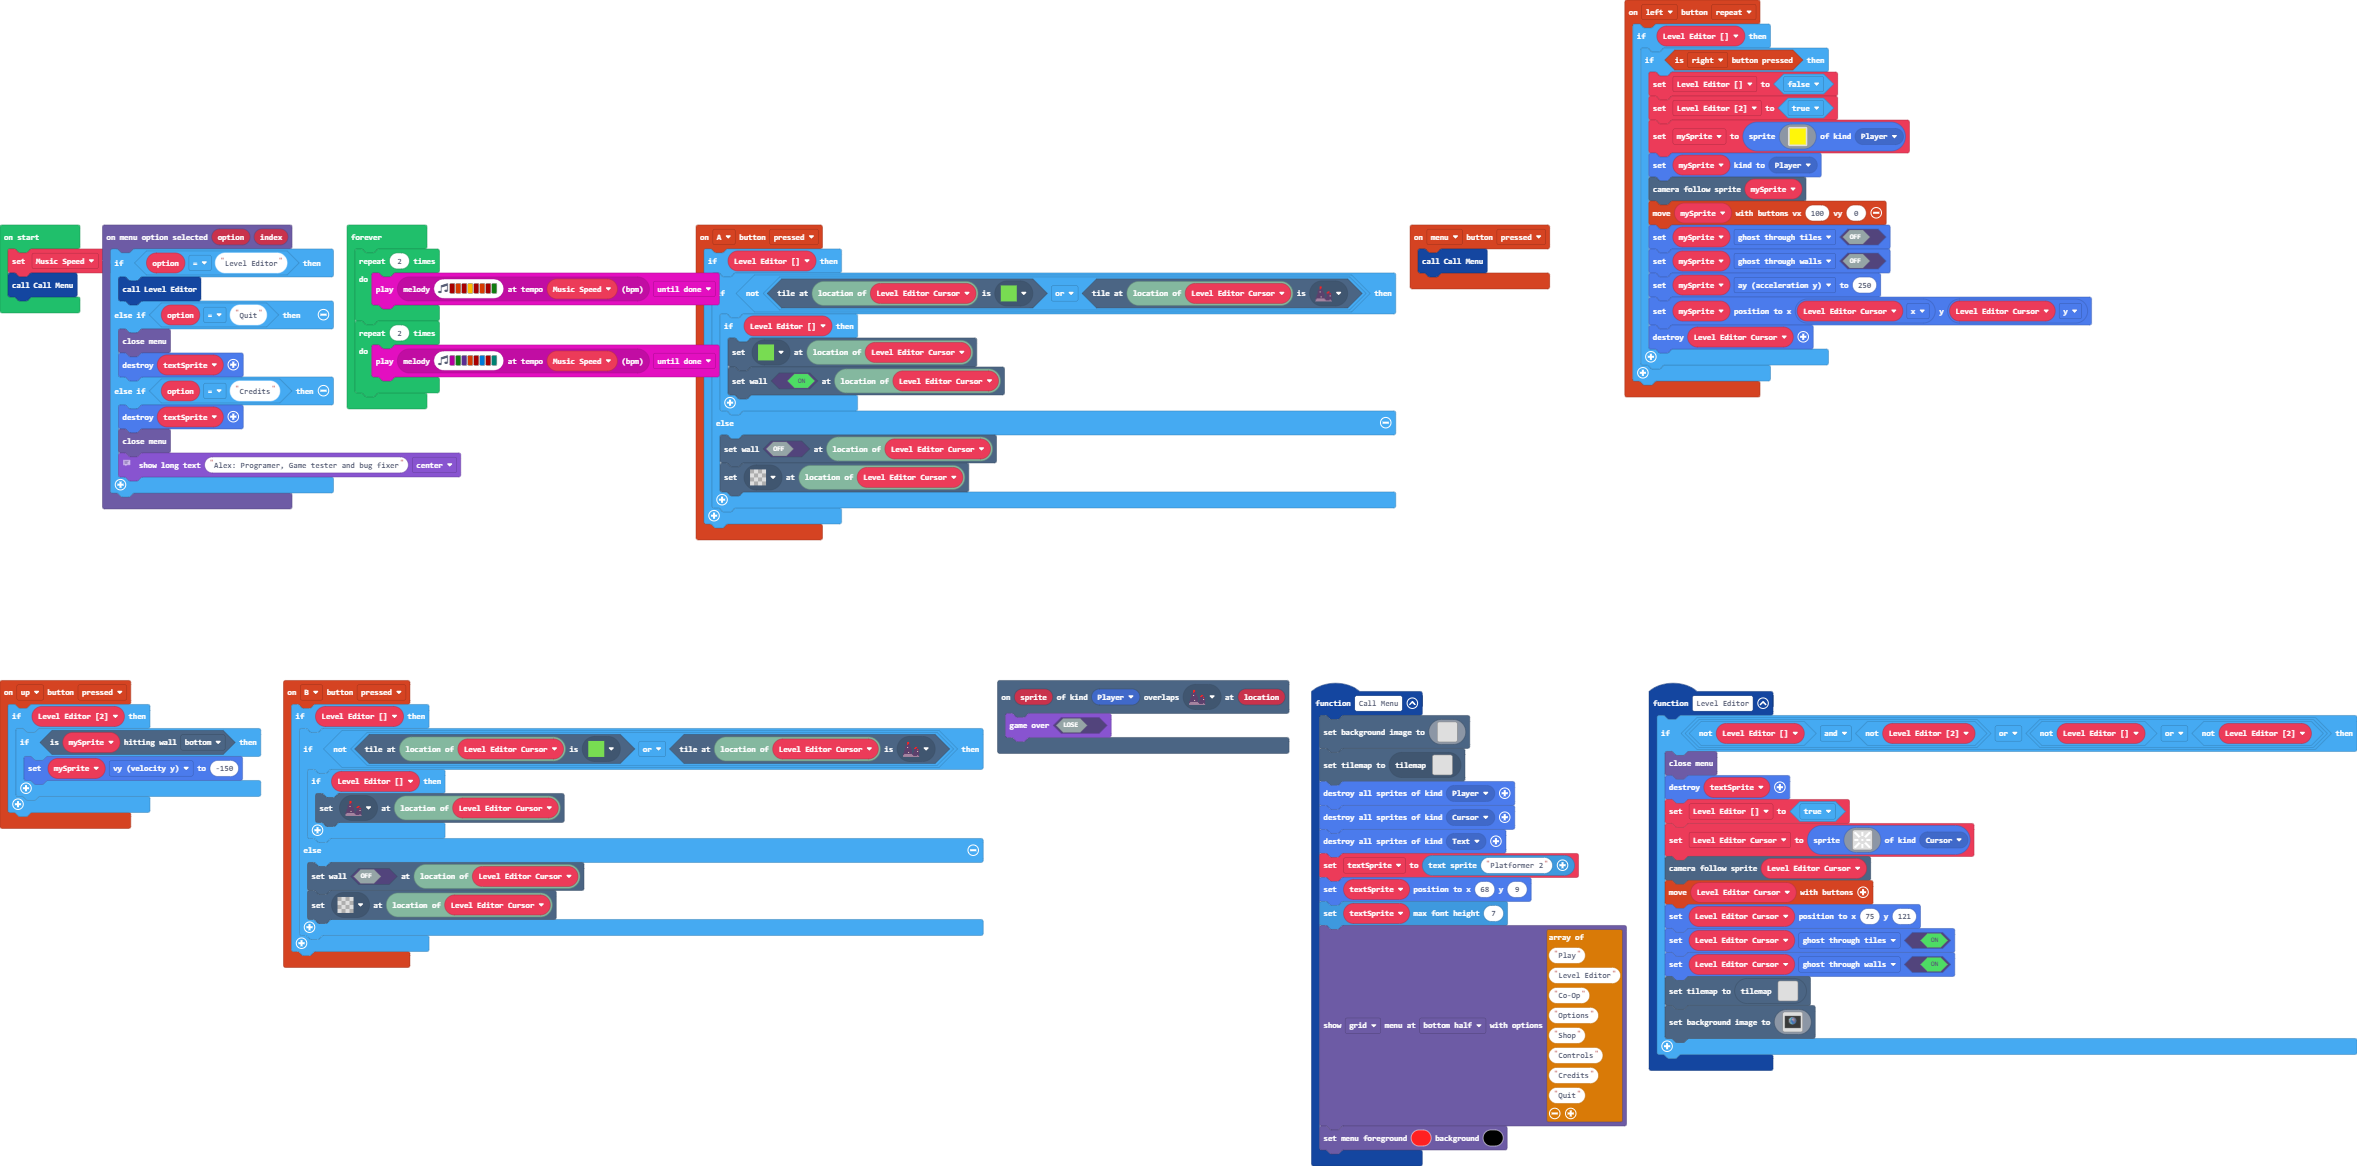
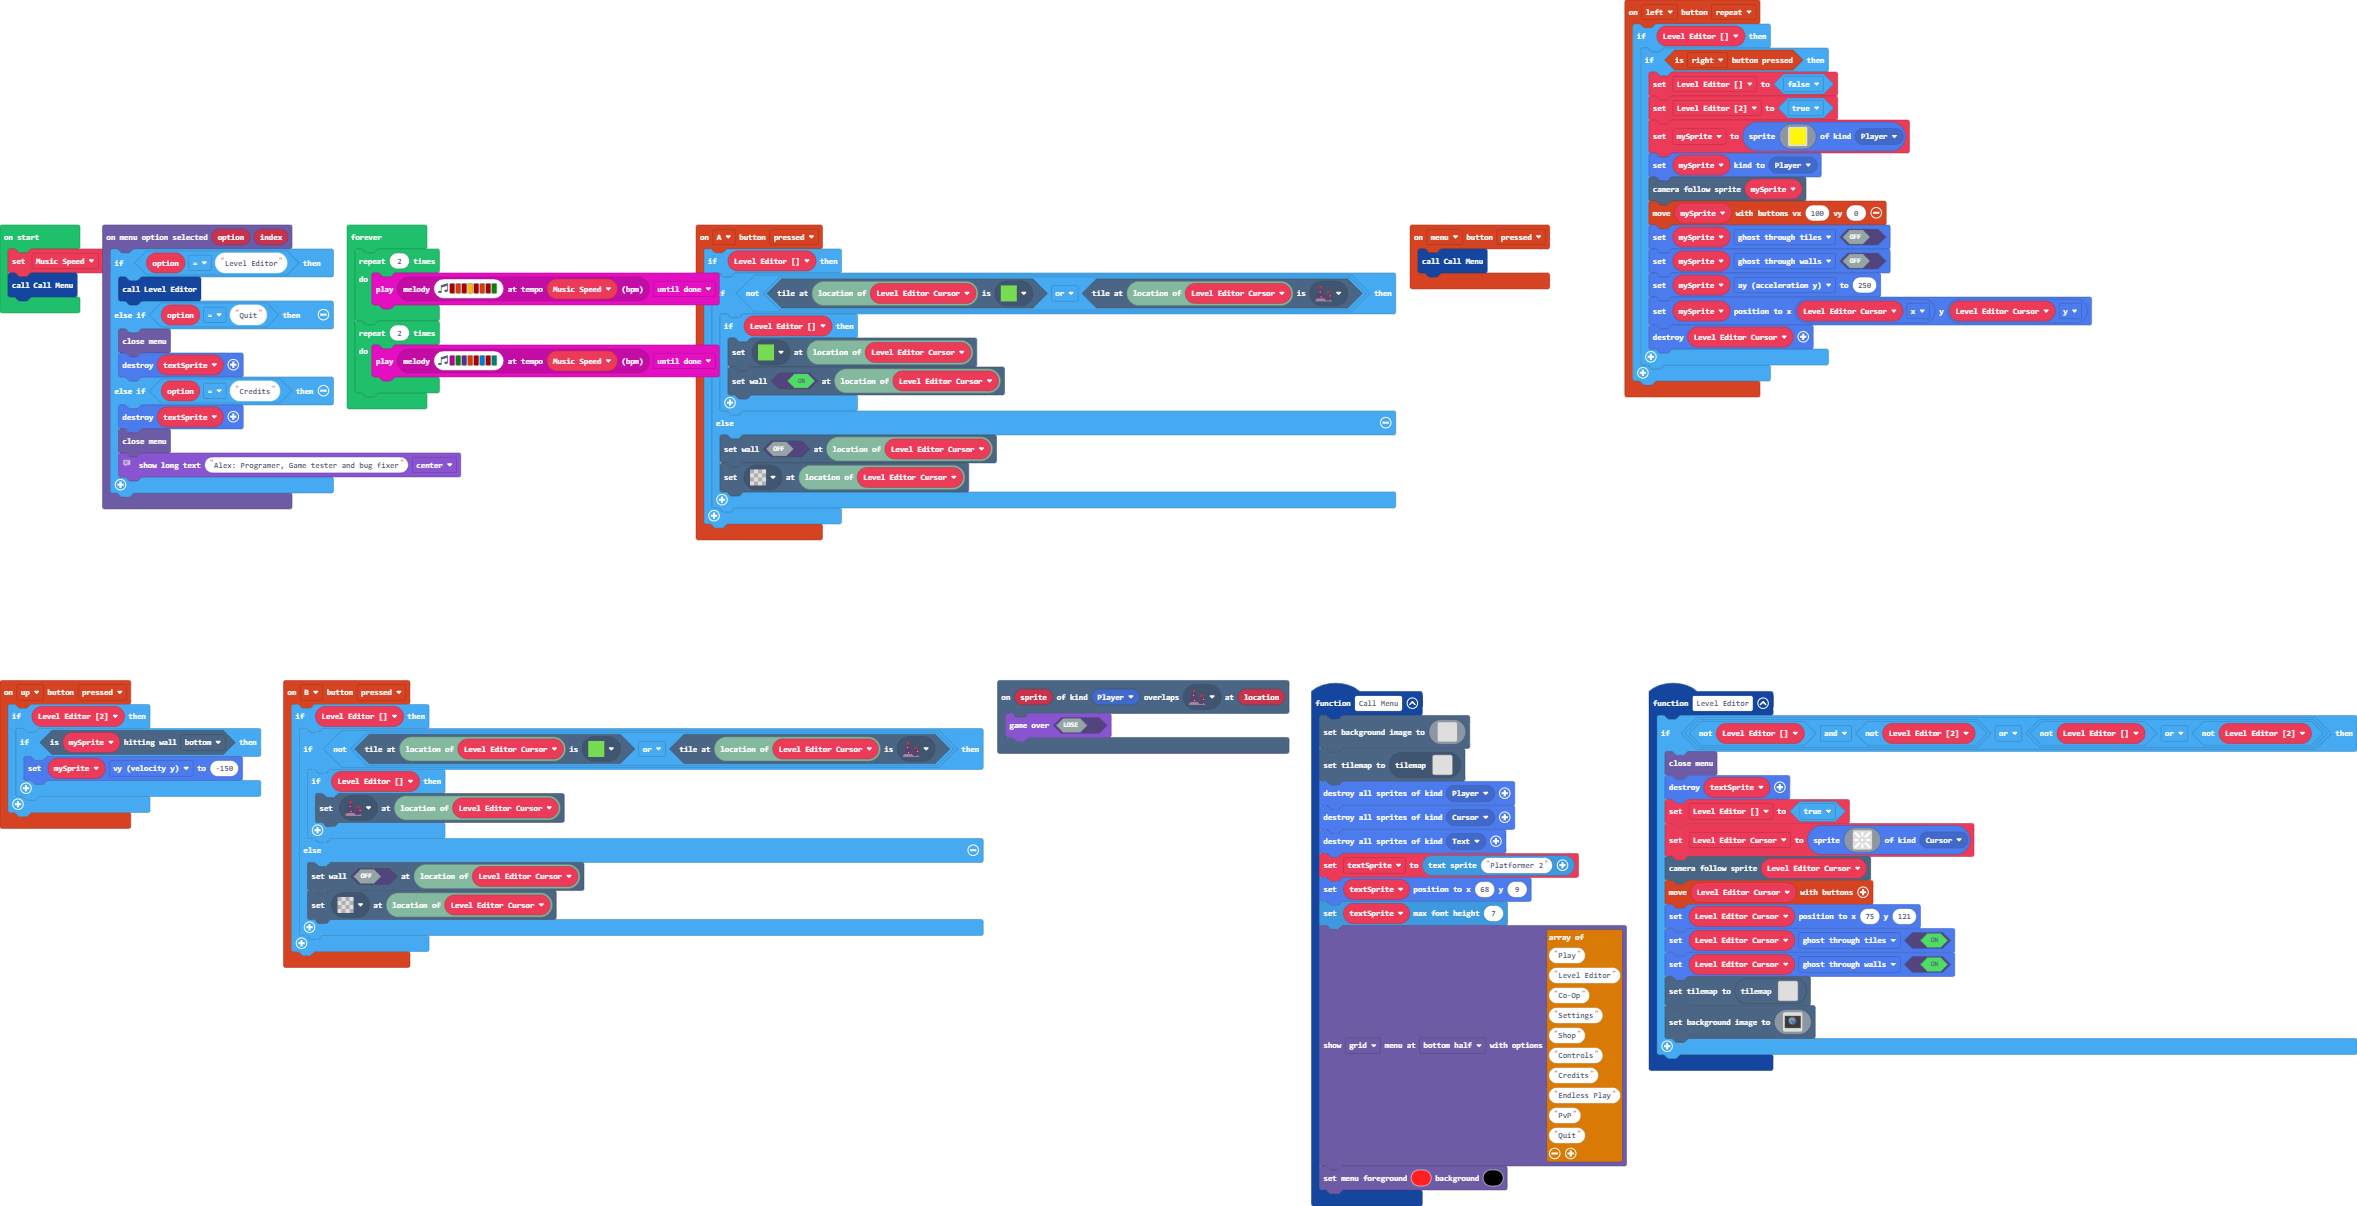
Update main.blocks, main.ts

Changed region(s): [[0.0, 0.5557, 1.0, 0.988], [0.0, 0.0, 0.8982, 0.4631]]

diff --git a/main.ts b/main.ts
@@ -171,10 +171,12 @@ function Call_Menu () {
     "Play",
     "Level Editor",
     "Co-Op",
-    "Options",
+    "Settings",
     "Shop",
     "Controls",
     "Credits",
+    "Endless Play",
+    "PvP",
     "Quit"
     ], MenuStyle.Grid, MenuLocation.BottomHalf)
     blockMenu.setColors(2, 15)
